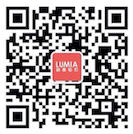
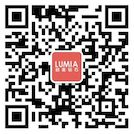
f

diff --git a/cn/autoreply.php b/cn/autoreply.php
@@ -6,7 +6,7 @@ echo autoreply($_REQUEST['u'],$_REQUEST['m']);
 // $msg = $_REQUEST("keyword");
 //echo(autoreply($user,$msg));
 function autoreply($crr_c_o_id,$crr_message){
-//$holidaymessage='温馨提示：我公司于7月29日至8月16日放假。查询系统照常工作。如有任何问题，请给我们的客服微信留言：limeikefu02 我们会在8月16日以后尽快联系您。 \n\n';
+//$holidaymessage='温馨提示：我公司于7月29日至8月16日放假。查询系统照常工作。如有任何问题，请给我们的客服微信留言：limeikefu01 我们会在8月16日以后尽快联系您。 \n\n';
 $holidaymessage='';
 $pattern_ref = '/^[Kk]*[0-9]+$/';
 $conn = dbConnect ( 'write', 'pdo' );
@@ -89,7 +89,7 @@ if(preg_match($pattern_ref, $crr_message)){
 		$price_y=round($USD_CNY*$retail_price);
 		$price_euro=round($USD_EUR*$retail_price);
 		$price_y_marketing=$price_y*2;
-		$thefeedbackcontentforwechatuser=$holidaymessage."根据您提供的库存编号，我们为您找到了下列钻石:\n库存编号为 ".$crr_message.": 该钻石为".$shape_title."形；".$size."克拉，".$color."色，净度".$clarity."; 切工，抛光与对称性分别为：".$cut.", ".$polish.", ".$symmetry.$fluo_txt." 配有 ".$lab." 证书. 价格为 ".$price_euro."欧元 (".$price_y."人民币)。市场价:".$price_y_marketing."人民币。\n如果您有更多问题，欢迎与我们联系。\n客服微信：limeikefu02\n电话：+32 (0)3 689 73 94";
+		$thefeedbackcontentforwechatuser=$holidaymessage."根据您提供的库存编号，我们为您找到了下列钻石:\n库存编号为 ".$crr_message.": 该钻石为".$shape_title."形；".$size."克拉，".$color."色，净度".$clarity."; 切工，抛光与对称性分别为：".$cut.", ".$polish.", ".$symmetry.$fluo_txt." 配有 ".$lab." 证书. 价格为 ".$price_euro."欧元 (".$price_y."人民币)。市场价:".$price_y_marketing."人民币。\n如果您有更多问题，欢迎与我们联系。\n客服微信：limeikefu01\n电话：+32 (0)3 689 73 94";
 	}else{
 		$thefeedbackcontentforwechatuser='非常抱歉，我们没有找到符合与您所提供的库存编号相对应的钻石。'.'\n\n'.$holidaymessage;
 	}
@@ -400,7 +400,7 @@ if(preg_match($pattern_ref, $crr_message)){
 					$thefeedbackcontentforwechatuser.="实惠优选：\n库存编号：".$ref."\n重量：".$size."克拉，颜色：".$color."，净度：".$clarity."\n切工、抛光与对称性分别：".$cut."、".$polish."、".$symmetry."，荧光：".$fluo_txt."\n".$lab." 证书. 价格：".$user_price."。（市场价：".$user_price_marketing."）\n\n";
 				}
 				
-				$thefeedbackcontentforwechatuser.='如果您有其他问题，欢迎与我们联系。\n客服微信：limeikefu02\n电话：+32 (0)3 689 73 94';
+				$thefeedbackcontentforwechatuser.='如果您有其他问题，欢迎与我们联系。\n客服微信：limeikefu01\n电话：+32 (0)3 689 73 94';
 			}else{
 				$thefeedbackcontentforwechatuser='非常抱歉，我们无法确定您所选的货币，请重试。'.'\n\n'.$holidaymessage;
 			}
@@ -712,7 +712,7 @@ if(preg_match($pattern_ref, $crr_message)){
 				}
 			}
 			
-			$thefeedbackcontentforwechatuser.="如果您有更多问题，欢迎与我们联系。\n客服微信：limeikefu02\n电话：+32 (0)3 689 73 94";
+			$thefeedbackcontentforwechatuser.="如果您有更多问题，欢迎与我们联系。\n客服微信：limeikefu01\n电话：+32 (0)3 689 73 94";
 		}else{
 			$thefeedbackcontentforwechatuser='抱歉，我们无法找到符合您要求的钻石，请调整挑选条件并重试。'.'\n\n'.$holidaymessage;;
 		}
@@ -736,7 +736,7 @@ if(preg_match($pattern_ref, $crr_message)){
 		else if($crr_message=="退税")
 			$thefeedbackcontentforwechatuser="<a href='https://mp.weixin.qq.com/s?__biz=MzIyNzA2NjE1OQ==&mid=2653292189&idx=1&sn=8d234951513212706149cc4797117a03&chksm=f3b44eddc4c3c7cb492de6e6abaa38fc4a1aca190b8935619fa69b075e670a93844f0420c54c&scene=21'>在Lumia购买钻石如何退21%全税？</a>";
 		else
-			$thefeedbackcontentforwechatuser="欢迎关注利美钻石，我们有24小时客服随时为您提供服务，欢迎添加利美客服号:limeikefu02或致电 +32 (0)3 689 73 94\n<a href=\"https://mp.weixin.qq.com/s?__biz=MzIyNzA2NjE1OQ==&mid=2653294074&idx=2&sn=ccfd7b99c12a7ea7beb596877c4842b0&chksm=f3b445bac4c3ccacaa1e7f8045558d1b6ba247ab94764614c2c6103efe2268df25022bb9c1e4\">Lumia利美公众号使用指南</a>";
+			$thefeedbackcontentforwechatuser="欢迎关注利美钻石，我们有24小时客服随时为您提供服务，欢迎添加利美客服号:limeikefu01或致电 +32 (0)3 689 73 94\n<a href=\"https://mp.weixin.qq.com/s?__biz=MzIyNzA2NjE1OQ==&mid=2653294074&idx=2&sn=ccfd7b99c12a7ea7beb596877c4842b0&chksm=f3b445bac4c3ccacaa1e7f8045558d1b6ba247ab94764614c2c6103efe2268df25022bb9c1e4\">Lumia利美公众号使用指南</a>";
 		//exit();
 	}	
 }
